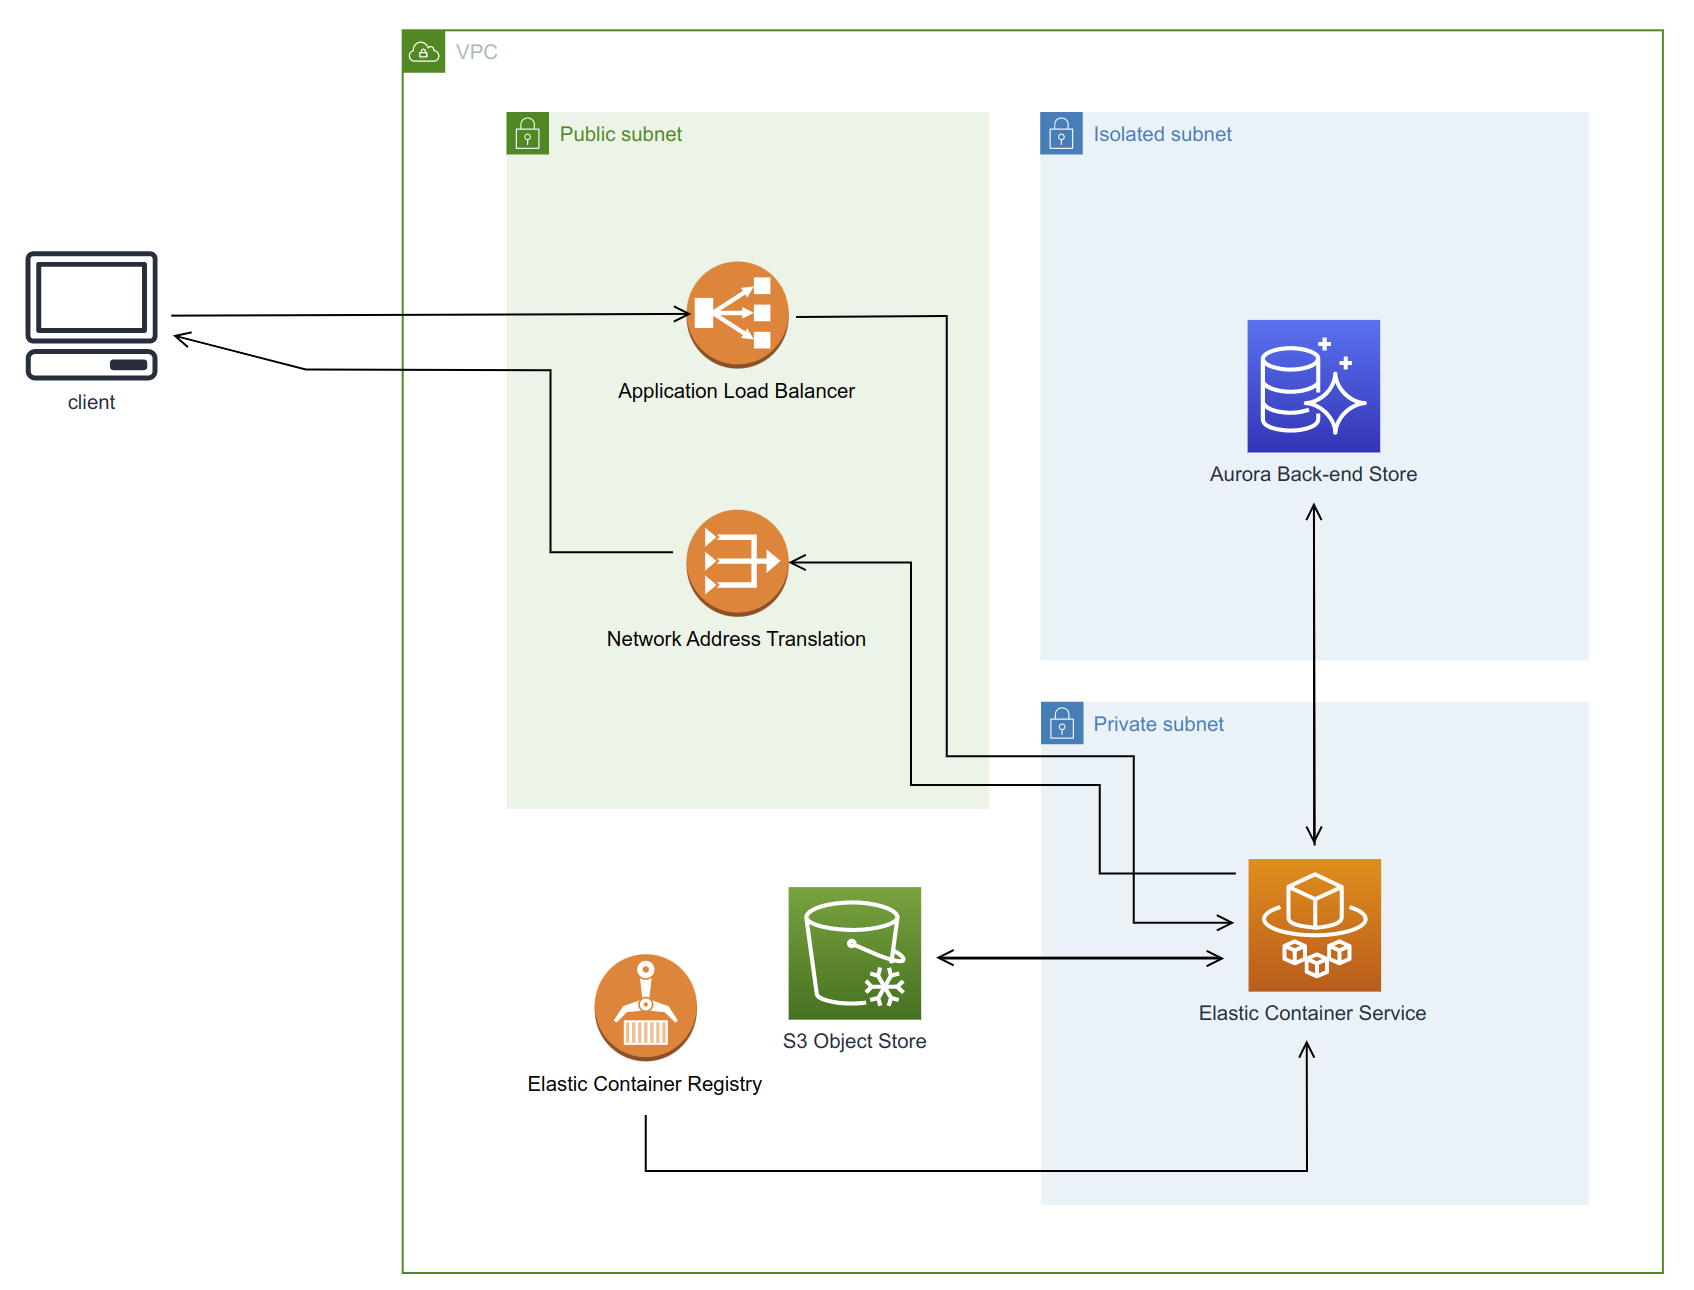
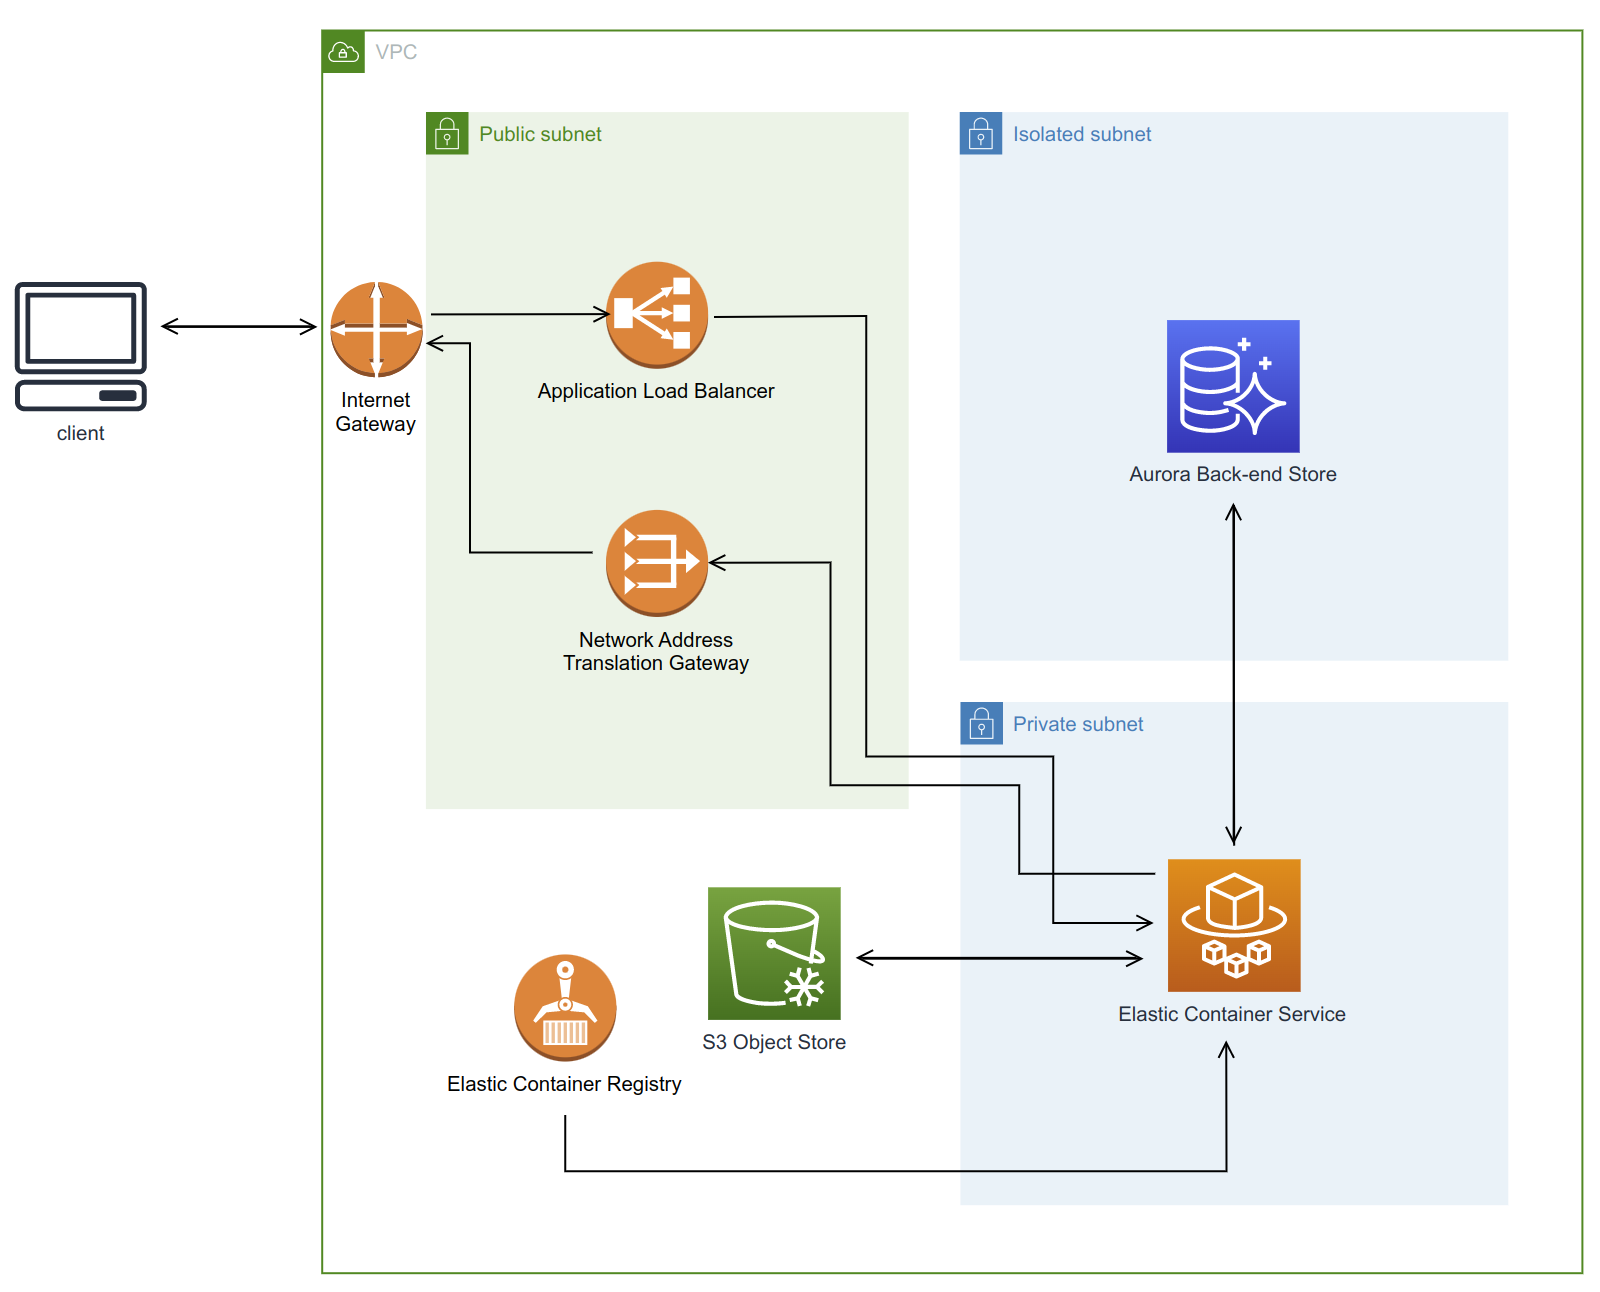
update readme again

diff --git a/README.md b/README.md
@@ -1,10 +1,16 @@
 # Machine Learning Operations in Production
 Infrastructure for machine learning operations. Want to remotely host a data store for machine learning. Will use Mlflow for systematically recording experiments, AWS fargate to host the mlflow server remotely, AWS S3 as a artifact store (model weights, ids-to-tokens, etc.) and AWS Aurora database management service for the backend store of Mlflow (model metrics, version info, etc. )
 
-**Production environment set up**
-![](media/mlopsSetup.jpg "ML operations architecture diagram")
-**Note no authentication is shown in diagram, but will be added behind load balancer using reversed proxy. See: https://github.com/ntropy-network/oauth2-proxy**
-![](media/mlflow-config.png "MLFlow configuration")
+## Architecture proposal
+![](media/mlopsSetup.png "ML operations architecture diagram")
+Incoming requests are sent to the application load balancer, forwarding to the fargate task serving the MLFlow tracking server. Any responses from the server are routed through the network address translationgate way, and backout the internet gate.
 
+**Note no authentication is shown in diagram, but will be added behind load balancer using reversed proxy. See: https://github.com/ntropy-network/oauth2-proxy**
+
+## MLFlow related logic
+![](media/mlflow-config.png "MLFlow configuration")
+To restrict public access to the artifact and backend store, a remote host is used as a proxy to interact with the storage services. 
+
+**Note**: Using Mysql backend __not__ PostgreSQL as the diagram suggests.
 
 
